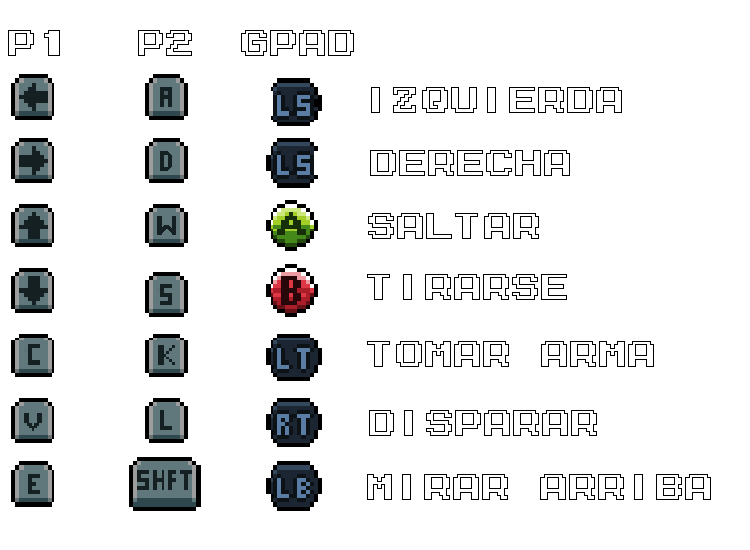
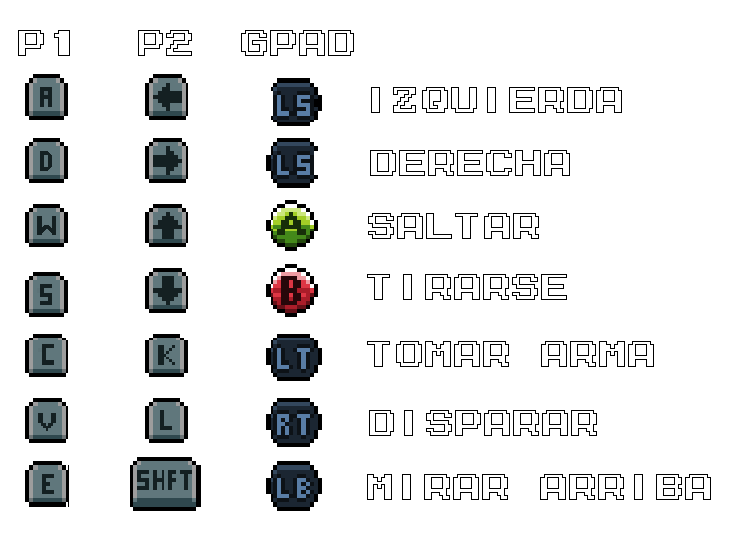
Actualizo manual de usuario con fix de los controles, y ahora el sonido no arranca mas muteado

diff --git a/client/sound_manager.cpp b/client/sound_manager.cpp
@@ -8,6 +8,9 @@
 #define QUACK_GROUP 2
 #define GRENADE_GROUP 3
 
+#define MUSIC_VOLUME 2
+#define SOUND_VOLUME 7
+
 static Config& config = Config::get_instance();
 
 const static uint BEEP_INTERVAL = config.get_client_fps() / 2;
@@ -32,12 +35,11 @@ SoundManager::SoundManager():
     other_sounds["beep"] = new SDL2pp::Chunk(DATA_PATH "/sounds/beep.wav");
     other_sounds["quack"] = new SDL2pp::Chunk(DATA_PATH "/sounds/quack.wav");
 
-    mixer.SetMusicVolume(0);
+    mixer.SetMusicVolume(MUSIC_VOLUME);
     mixer.PlayMusic(background_music);
-    mixer.PauseMusic();
 
     for (int channel = 0; channel < CHANNELS; channel++) {
-        mixer.SetVolume(channel, 0);
+        mixer.SetVolume(channel, SOUND_VOLUME);
     }
 }
 
@@ -79,10 +81,10 @@ void SoundManager::dead_sound() {
 
 void SoundManager::toggle_mute() {
     if (mixer.GetMusicVolume() == 0) {
-        mixer.SetMusicVolume(2);
+        mixer.SetMusicVolume(MUSIC_VOLUME);
         mixer.ResumeMusic();
         for (int channel = 0; channel < CHANNELS; channel++) {
-            mixer.SetVolume(channel, 7);
+            mixer.SetVolume(channel, SOUND_VOLUME);
         }
     } else {
         mixer.SetMusicVolume(0);

diff --git a/docs/manual-usuario.md b/docs/manual-usuario.md
@@ -66,10 +66,10 @@ duck_game_client
 
 ![ingreso partida](images/manual-usuario/unirse-partida.png)
 
-- Una vez ingresados a la partida (luego de presionar *Confirmar* (Confirm), se mostrará una pantalla de espera, donde se esperará a que el creador inicie el juego.
-- Se muestra el color y ID del jugador/es
+- Una vez ingresados a la partida (luego de presionar *Confirmar* (Confirm), se ingresa a la sala de espera, donde se esperará a que el creador inicie el juego.
+- Se muestra a cada jugador conectado actualmente en su cuadrante, con su nombre de usuario abajo, pueden moverse por la sala, disparar, etc.
 
-![esperando jugadores](images/manual-usuario/esperando-jugadores.png)
+![esperando jugadores](images/manual-usuario/esperando-dinamico.png)
 
 ## 🦆 **Juego**
 
@@ -80,17 +80,18 @@ duck_game_client
 
 #### **Inicio de partida**
 
-- Una vez iniciada la partida, se muestra que pato fue asignado a cada jugador, y empieza la primera ronda.
+- Una vez que el creador decida iniciar la partida, ya será capaz de controlar a su pato en la sala de espera y aparecerán cajas en los cuadrantes de los jugadores, cuando cada jugador conectado rompa su caja, comenzará el juego
+
+![Romper cajas](images/manual-usuario/rompan-cajas.png)
 
 ![inicio juego](images/manual-usuario/inicio-juego.png)
-
-
-![Puntuacion](images/manual-usuario/puntuaciones-media.png)
 
 #### **Condición de victoria**
 
 - El jugador que obtenga 10 (nuevamente configurable, ver sección [configuración](#-configuración)) o mas puntos será el ganador. En caso de empate, se vuelven a jugar 5 rondas hasta que pueda declararse un único ganador
 - Como la partida se desarrolla en tiradas de 5 rondas, y se busca el ganador unicamente al finalizar estas tiradas, puede pasar que un jugador sea el primero en llegar a 10 rondas y otro jugador termine siendo el ganador
+
+![Puntuacion](images/manual-usuario/puntuaciones-media.png)
 
 ![victoria](images/manual-usuario/victoria.png)
 
@@ -107,6 +108,14 @@ duck_game_client
 
 <p align="center">
   <img src="./images/manual-usuario/cajas.gif" alt="Rompiendo cajas" />
+</p>
+
+- **Bloques traspasables:** Los bloques traspasables se marcan en el mapa con un nivel de transparencia que permite reconocerlos.
+ Al presionar la tecla de tirarse al suelo (`s` o `↓`) mientras se está sobre un bloque traspasable, se cae a través del mismo. 
+ Si se tiene encima un bloque traspasable, se puede saltar a traves de el.
+
+<p align="center">
+  <img src="./images/manual-usuario/bloques-traspasables.gif" alt="Boque traspasable" />
 </p>
 
 ## 🔫 **Armas**
